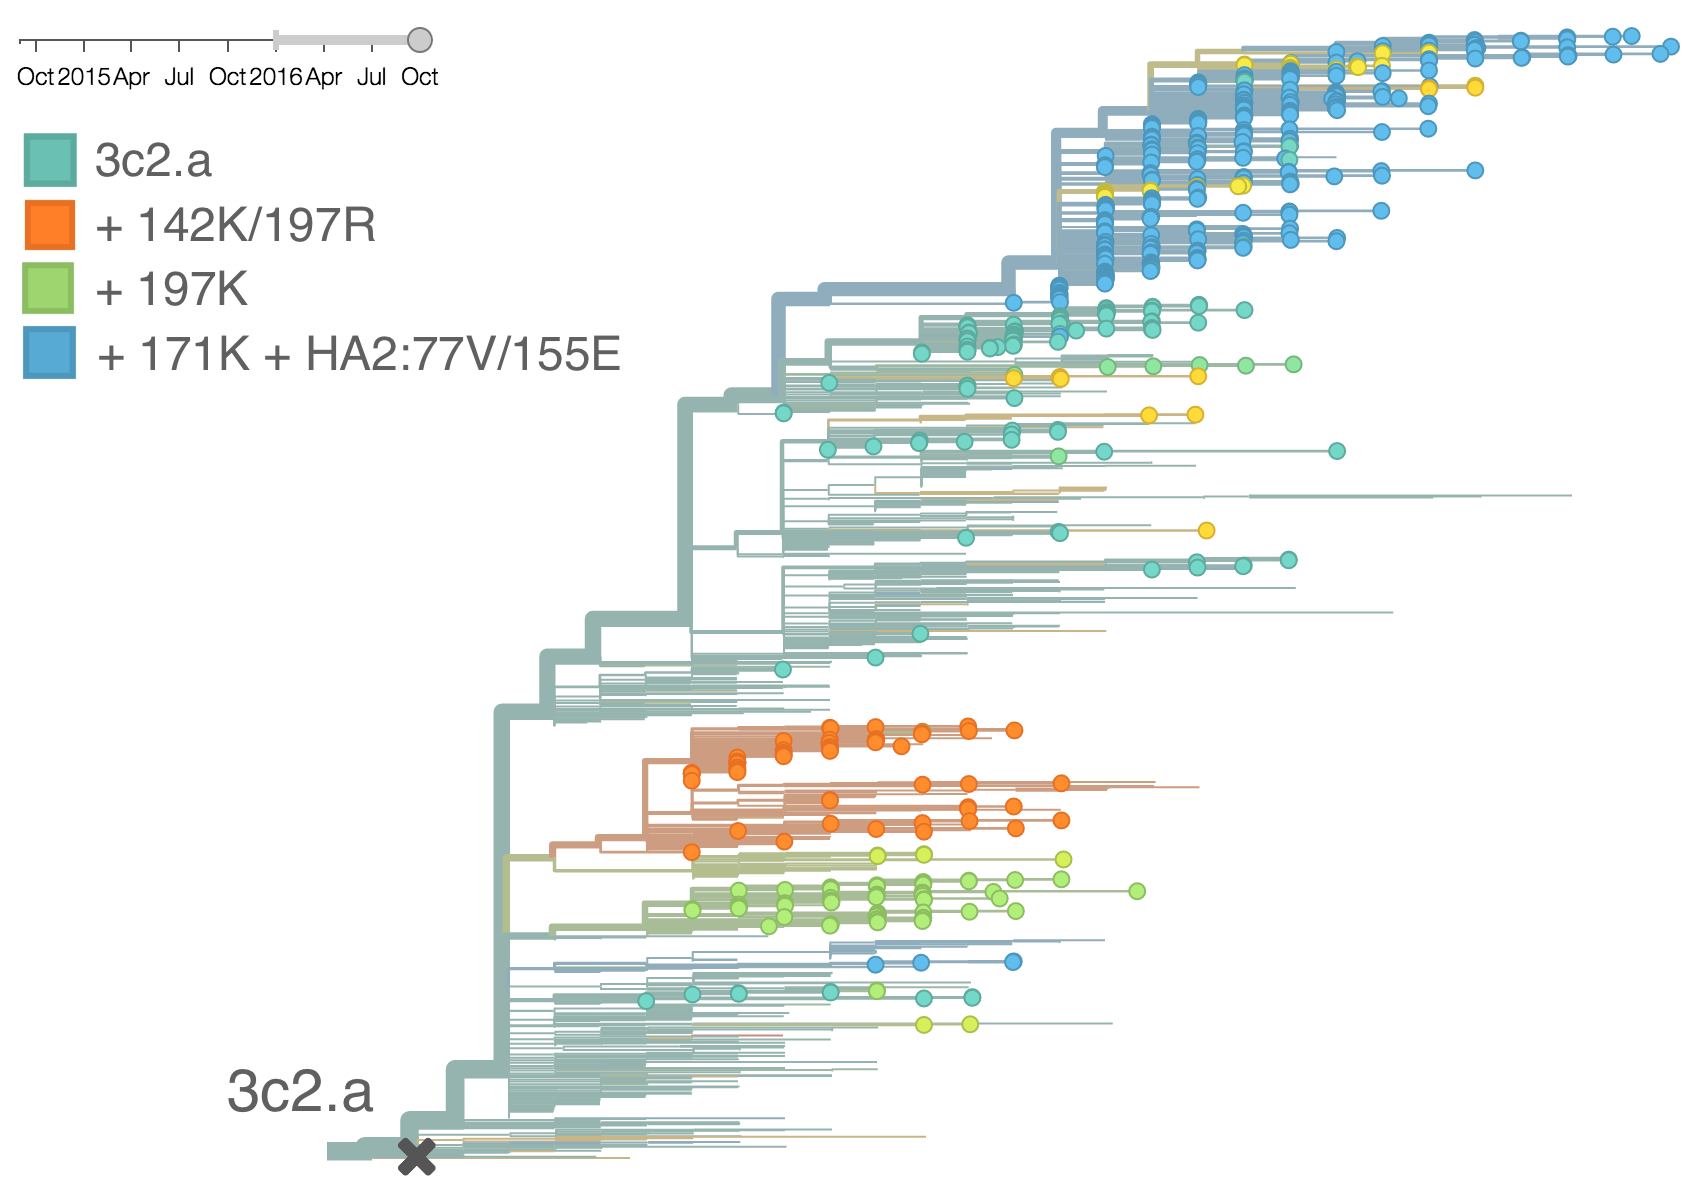
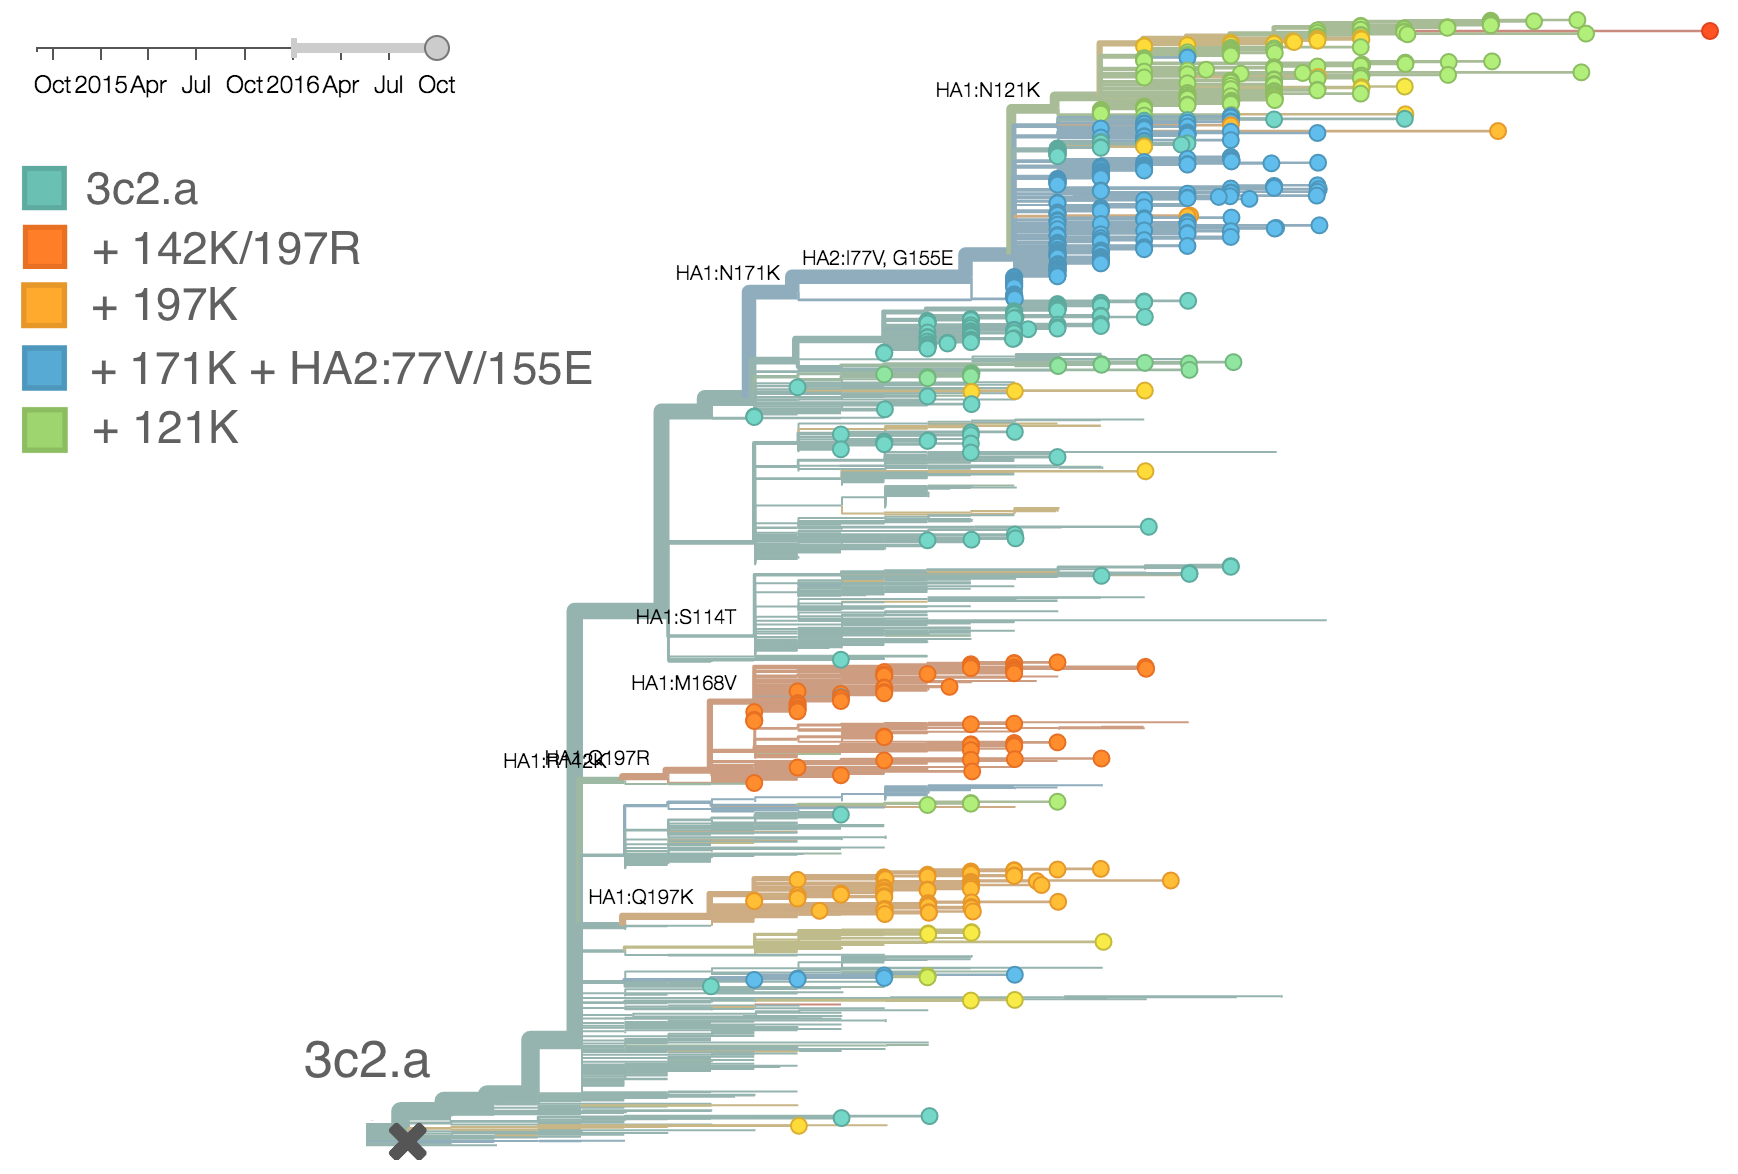
Include new H3 and H1 figures. Still need to update report text.

Changed region(s): [[0.1246, 0.0, 0.9965, 1.0], [0.0, 0.0307, 0.3737, 0.3986]]

diff --git a/auspice/reports/_posts/2016-09-16-sep-2016.html b/auspice/reports/_posts/2016-09-16-sep-2016.html
@@ -161,7 +161,7 @@ categories:
 	</div>
 	<div class="col-md-9">
 
-		<b>Clade 3 has continued to predominate the B/Yamagata population. Within clade 3 the 172Q/251Q subclade has risen to predominate. There is limited diversity within 172Q/251Q viruses, with the largest subclade comprised of 211R viruses.</b>
+		<b>Clade 3 has continued to predominate the B/Yamagata population. Within clade 3 the 172Q/251V subclade has risen to predominate. There is limited diversity within 172Q/251V viruses, with the largest subclade comprised of 211R viruses.</b>
 
 		<div class="spacer"></div>
 

diff --git a/auspice/reports/plot_clades.py b/auspice/reports/plot_clades.py
@@ -27,7 +27,7 @@ region_codes = {'EU':['europe'], 'AS':['china', 'south_asia', 'japan_korea','sou
 
 if virus=='H3N2': ########## H3N2
     clades = ['3c2.a', '3c3.a', '3c3.b']
-    mutations = ['HA1:142K', 'HA1:197K', 'HA1:171K']
+    mutations = ['HA1:142K', 'HA1:197K', 'HA1:171K', 'HA1:121K']
     clade_legend = {'panel':0, 'loc':3}
     mut_legend = {'panel':0, 'loc':3}
 elif virus=='H1N1pdm': ########## H1N1pdm
